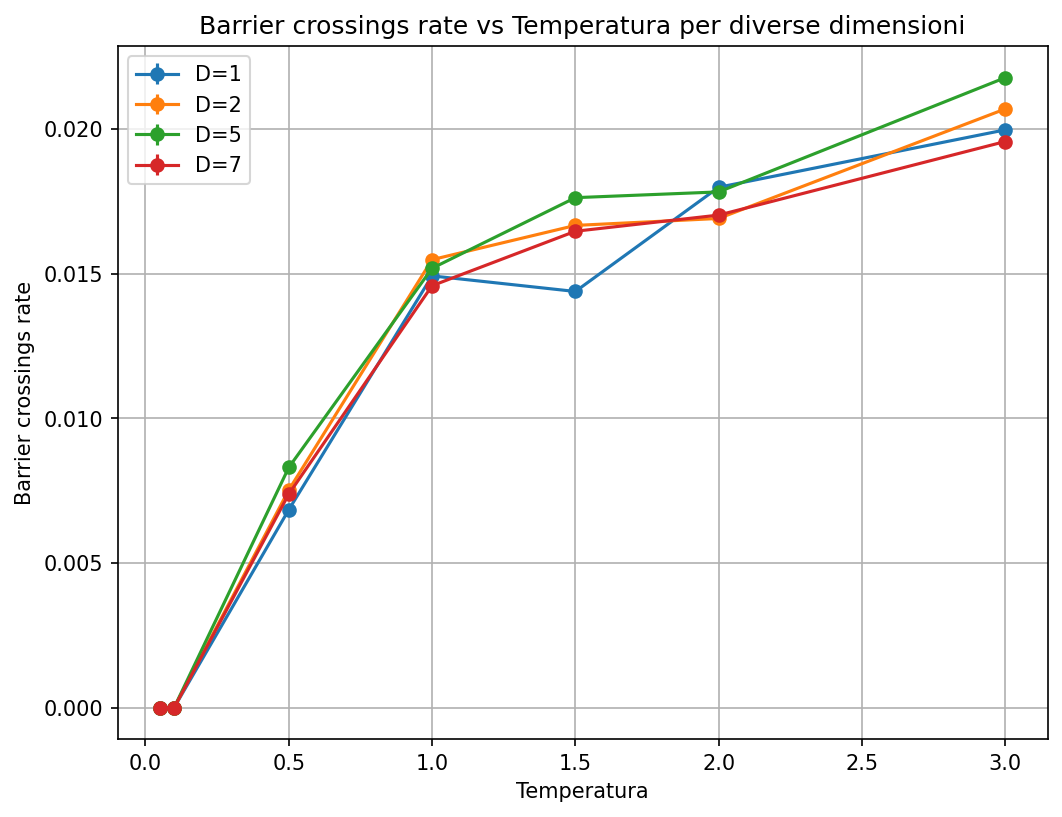
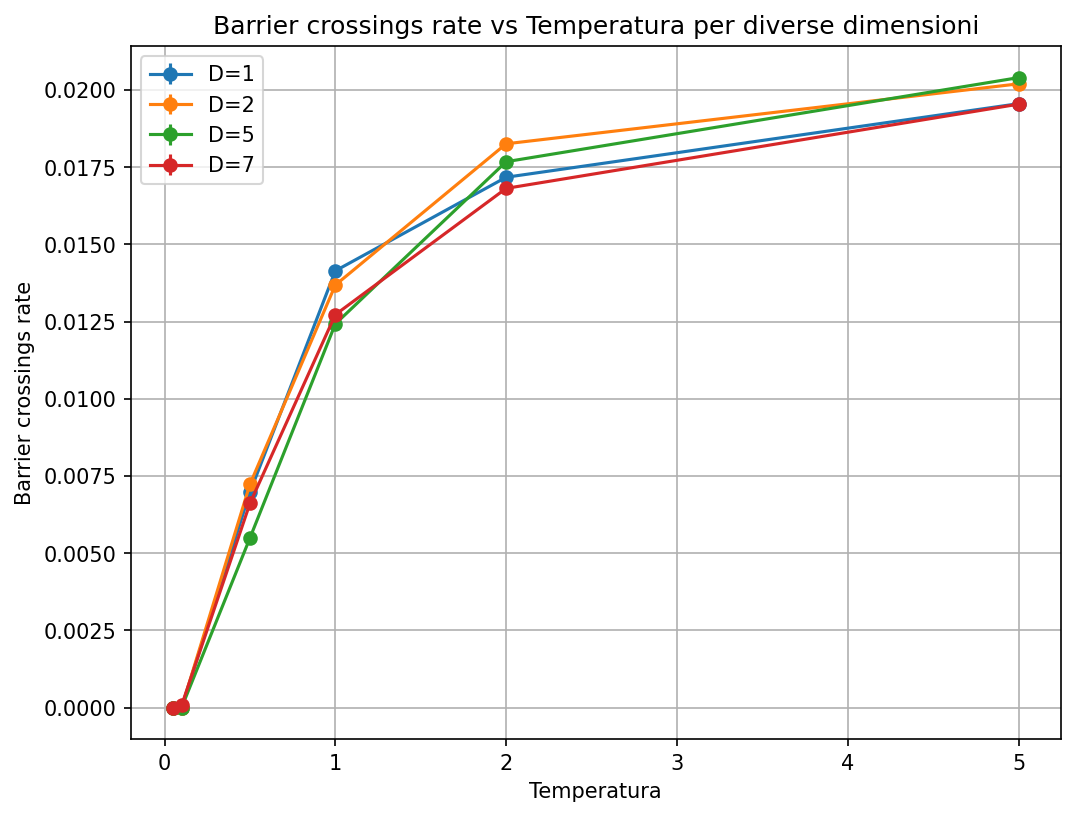
new run

diff --git a/source/observable.py b/source/observable.py
@@ -3,8 +3,11 @@ import jax.numpy as jnp
 
 @jax.jit
 def V(x, a=1.0, b=1.0):
-    return a * (x[0]**2 - b)**2 + 0.5 * jnp.sum(x[1:]**2)
-
+    if x.shape[0] == 1:
+        return a * (x[0]**2 - b)**2
+    else:
+        return a * (x[0]**2 - b)**2 + 0.5 * jnp.sum(x[1:]**2)
+    
 def mean_energy(trajectory):
     energies = jax.vmap(V)(trajectory)
     return jnp.mean(energies)
@@ -33,7 +36,7 @@ def integrated_autocorrelation_time(x, c=5.0):
     tau = 0.5
     for t in range(1, len(corr)):
         tau += corr[t]
-        if t >= c * tau:  # finestra self-consistent
+        if t >= c * tau:  # stop when t exceeds c times the current estimate of tau
             break
     return tau
 
@@ -45,7 +48,7 @@ def barrier_crossings_rate(trajectory, eps=1e-3):
 
     signs = jnp.sign(x)
 
-    return jnp.sum(signs[:-1] * signs[1:] < 0)/len(x)
+    return jnp.sum(signs[:-1] * signs[1:] < 0)/len(x) # rate of crossings per unit time
 
 def blocking_error(data, block_size):
     n_blocks = len(data) // block_size
@@ -64,7 +67,6 @@ def append_observables(results, trajectories, D, T, trajectory, acceptance_rate)
     E_mean = mean_energy(trajectory)
     E_mean_err = blocking_error(jax.vmap(V)(trajectory), block_size)
     Cv = heat_capacity(trajectory, T)
-    Cv_err = blocking_error(jax.vmap(lambda x: (V(x) - E_mean)**2)(trajectory), block_size)
     crossings_r = barrier_crossings_rate(trajectory)
     crossings_r_err = jnp.sqrt(crossings_r)/len(trajectory[:,0])  # standard error assuming Poisson distribution
 
@@ -72,11 +74,10 @@ def append_observables(results, trajectories, D, T, trajectory, acceptance_rate)
     results[D]["E_mean"].append(E_mean)
     results[D]["E_mean_err"].append(E_mean_err)
     results[D]["Cv"].append(Cv)
-    results[D]["Cv_err"].append(Cv_err)
     results[D]["acceptance"].append(acceptance_rate)
     results[D]["tau_x"].append(tau_x)
     results[D]["barrier_crossings_rate"].append(crossings_r)
     results[D]["barrier_crossings_rate_err"].append(crossings_r_err)
-    
+
     trajectories[D].append(trajectory[:,0])
     

diff --git a/source/main.py b/source/main.py
@@ -7,9 +7,9 @@ import jax.numpy as jnp
 
 def main():
     dimensions = [1, 2, 5, 7]
-    temperatures = [0.05 ,0.1, 0.5, 1.0, 1.5, 2.0, 3.0]
+    temperatures = [0.05 ,0.1, 0.5, 1.0, 2.0, 5.0]
     n_thermalization = 200000
-    n_steps = 50000
+    n_steps = 100000
     step_size = 0.1
 
     trajectories = {}
@@ -44,7 +44,7 @@ def main():
             print(f"D={D}, T={T:.3f}.")
     # plot results
     plot.plot_obs__D_T(results, dimensions, "E_mean", error=True)
-    plot.plot_obs__D_T(results, dimensions, "Cv", error=True)
+    plot.plot_obs__D_T(results, dimensions, "Cv")
     plot.plot_obs__D_T(results, dimensions, "tau_x")
     plot.plot_obs__D_T(results, dimensions, "acceptance")
     plot.plot_obs__D_T(results, dimensions, "barrier_crossings_rate", error=True)
